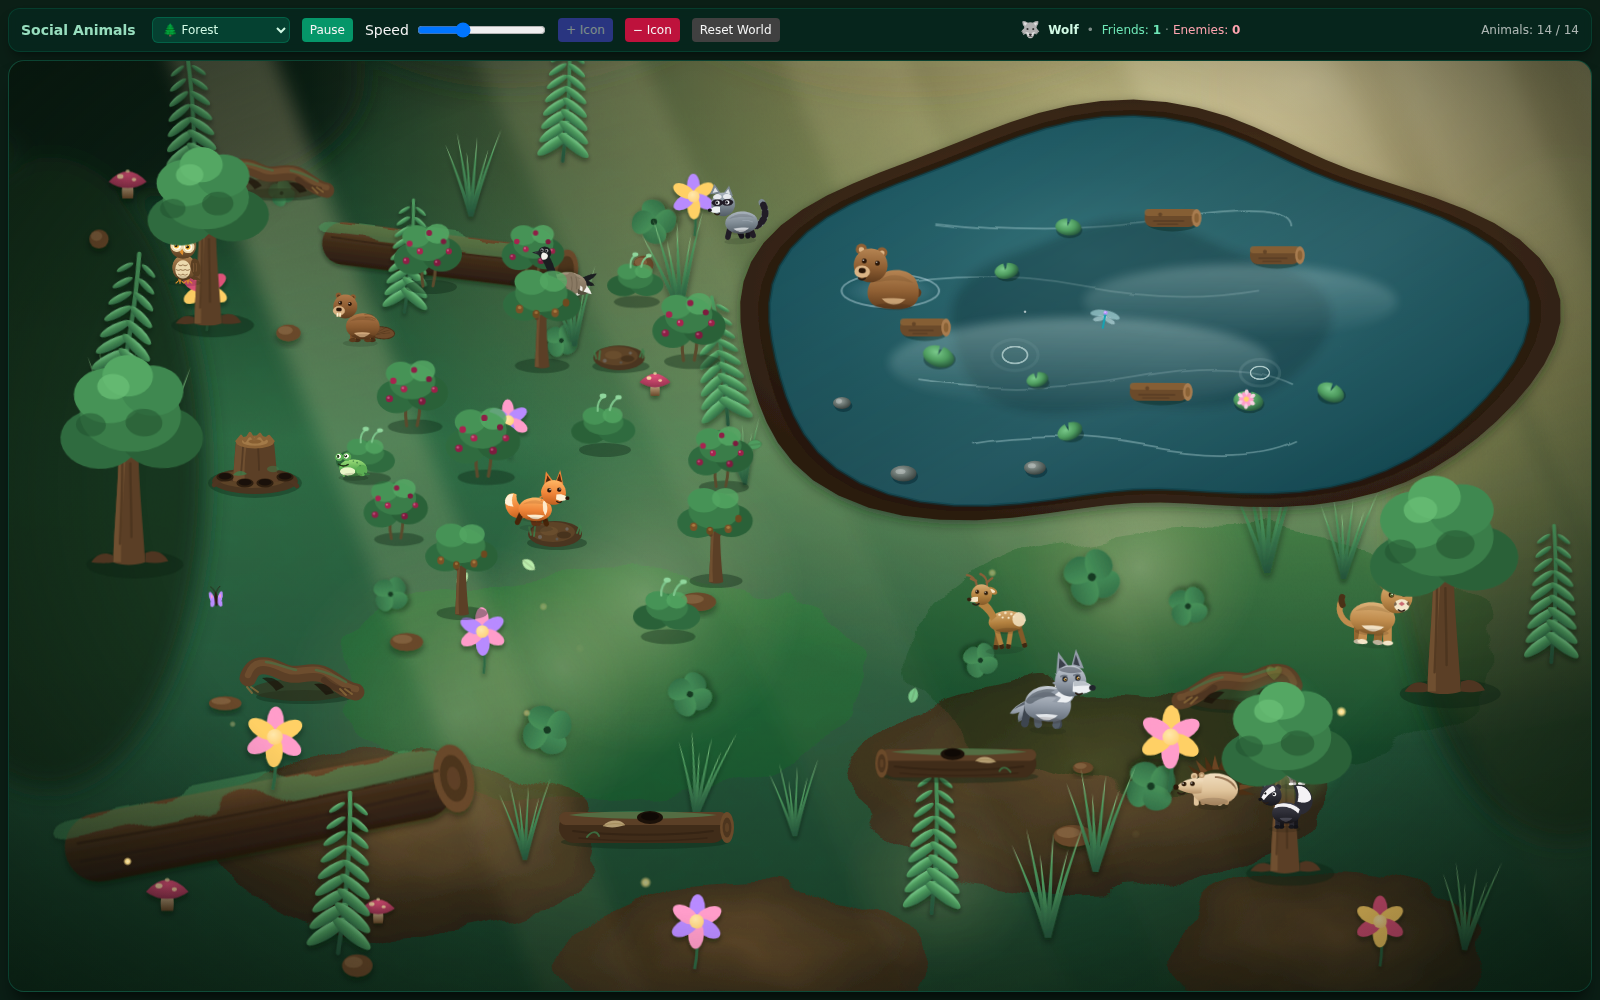
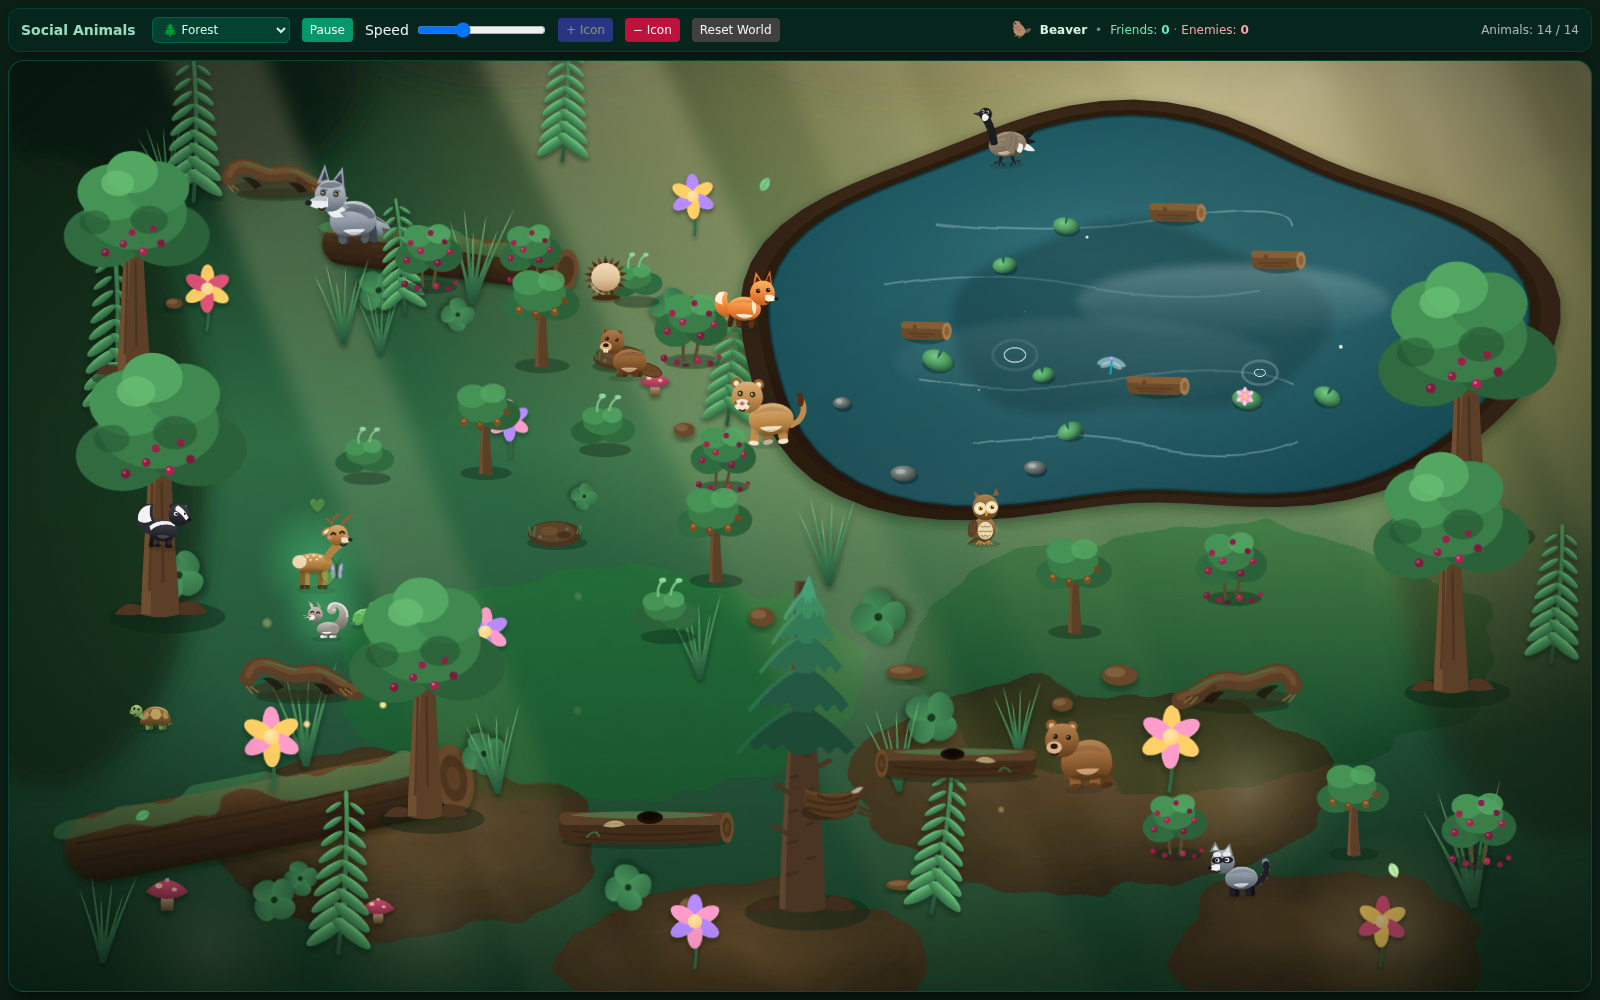
Ship v0.36: version, README and a screenshot of the world as it is now
The version had been left at 0.33.0 across two merged releases, and the
README still opened on v0.33 — so the front page described a world with
four trees, one squirrel larder and no owl behavior.

Rewrites the release section for v0.36, v0.35 and v0.34, leading with the
thing worth leading on: the forage ladder was inverted at the top and the
old metric hid it. Also regenerates media/screenshot.png, which predated
the terrain rework — it showed the west berry thicket that has since
moved to the south-east, four trees rather than six, and none of the
lone spruce.

Claude-Session: https://claude.ai/code/session_01CecMvi7EazBJsLZrRKdTBX

diff --git a/README.md b/README.md
@@ -6,7 +6,19 @@
 
 An interactive, emergent “living desktop” made of animal icons that socialize, argue, help each other, and roam **switchable worlds** — a forest around a lake, or a suburban neighborhood of rooftops. Every icon runs a tiny state machine (wander, idle, swim, friendly, fight, rescue, flee, separate, cooldown, drag) and forms relationships via last-touch memory (friend or rival).
 
-Current release: v0.33 — **Every animal moves like itself.**
+Current release: v0.36 — **Balanced by time, not by count.**
+
+Forage balance is dialled on the **share of the clock** each animal spends feeding, rather than on how often a bout starts — and the change was a correction, not a refinement. On the old metric the ladder read skunk 1.41 bouts/min, deer 1.15, bear 0.70 and looked right. Measured as time spent, the same build had the **bear on top at 39.8%** and the goose above the skunk: a bear's berry strip is one 34-second bout against the skunk's 11 seconds nosing windfall, and counting starts weights those equally. Now skunk 28.8% · deer 21.5% · bear 15.8% · squirrel 11.8% · raccoon 5.6% · fox 1.8%, with nothing over a third of its day.
+
+Bout lengths are **derived, not measured**, and that is deliberate: a bout is part fixed-duration states and part walking, headless frames run ~3fps against a real 60, and a stopwatch would have returned a number dominated by that artifact — eating the walk half, which is exactly the half separating the bear from the fox. The arithmetic lives in [`tests/cadence.mjs`](tests/cadence.mjs) (`npm run test:cadence`).
+
+An adversarial audit of the two previous releases also fixed four defects, three of which every suite was structurally blind to because they only appear on an **interrupted** bout: the bear's sweep tested one specific facing value and so left him walking backwards forever after any interrupted berry strip; the same sweep never returned his site claim, quietly removing a bush from the shared pool; the east-flank tree had its west-face working spots **inside the lake**, so a bear rearing against its bark played the swimming rig; and dragging one animal out of a fight was dead code, leaving the other stuck at its locked contact point. All four are pinned in [`tests/world.mjs`](tests/world.mjs) (`npm run test:world`).
+
+Built on v0.35 — **Five more species get an inner life.** The **raccoon** roosts out the daylight in a hollow log or tree cavity, climbs fruit trees, and his dousing was corrected: it is not washing food, it is wetting and rubbing the paw pads to sharpen touch. The **fox** screams and barks for a mate, plucks low berries, takes windfall and chews soft grass — all as variants of his existing appetite, which is what keeps him bottom of the ladder. The **owl** gets its first ethogram: deep hooting, and a nest it flies up to and freezes against the trunk in. The **squirrel** trades one larder for **four fixed, invisible, anchored cache spots** — dig, place one nut, pat the dirt back, and return to the exact same spot for it — plus a drey woven high in a tree fork and zig-zag escape sprints. And three species get their own **fight displays**: the skunk's aposematic stamp-and-arch followed by a green musk cloud that forces an extra flee, the goose's neck-low hissing charge, and the squirrel's tail-flick chatter.
+
+Built on v0.34 — **Terrain, and break-ups that move.** The goose was dabbling on the mud liner, and the band was measured against the wrong thing: the rim is *outside* the waterline, and what put him on it was his own drawing, whose water lens reaches 32px below the anchor. The usable band is now computed per angle from the pose's measured reach. His sward was 68% mud with its own centre on bare earth, so it moved to the grass verge between the earth patches and the shore. Break-ups no longer walk apart in a straight line and stand frozen: each animal independently rolls a short dash or a longer walk-off, on its own heading, with the standing pause gone and the cooldown untouched. The west berry thicket moved to a **second foraging ground** in the south-east with two nut trees; the trees grew 10% in the trunk and 20% overall; and two more joined them, including a **lone spruce** standing by itself at +30%.
+
+Built on v0.33 — **Every animal moves like itself.**
 
 **Size is the species now, not a dice roll.** Every animal drew its radius from `rand(18,24)*1.1` at spawn, so the same bear was a different size every reload and sometimes came up smaller than the squirrel standing next to him. Sizes are now derived once from real-world mass, body length and shoulder height — `M^(1/6) · L^(1/4) · H^(1/4)`, tail excluded — anchored with the bear as the largest at +20% and the frog as the floor, and held in [`app/src/SpeciesProfile.js`](app/src/SpeciesProfile.js) alongside each animal's real dimensions, top speed and habits.
 
